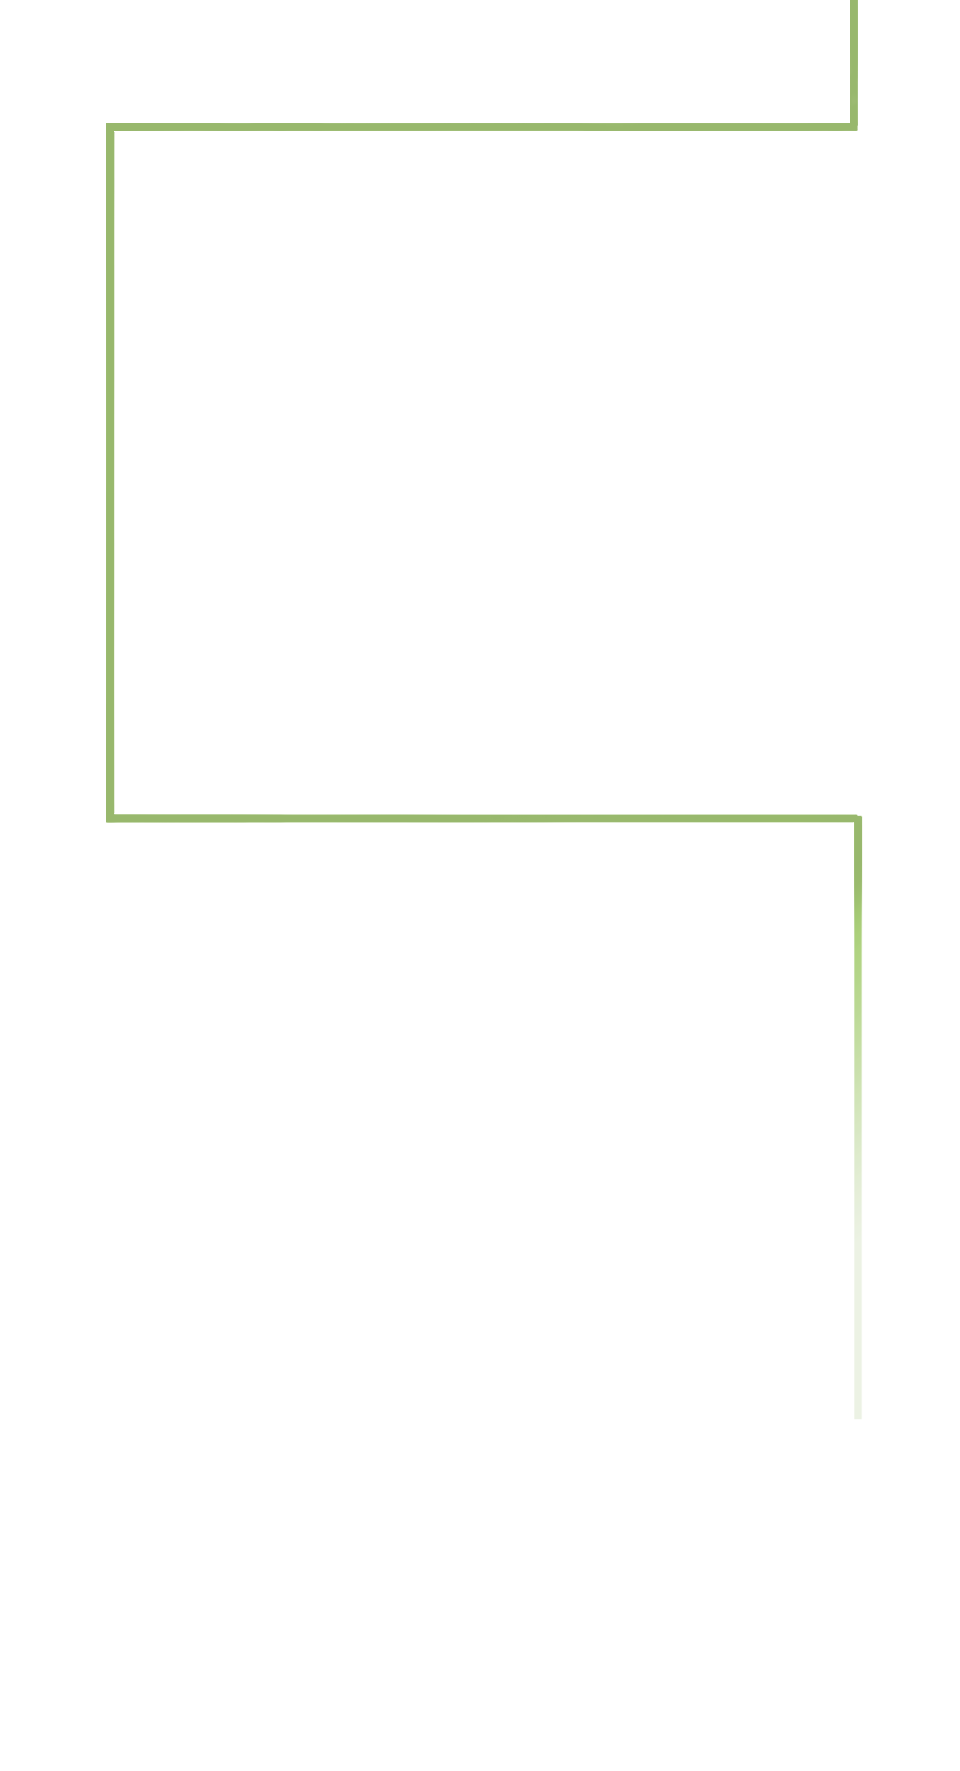
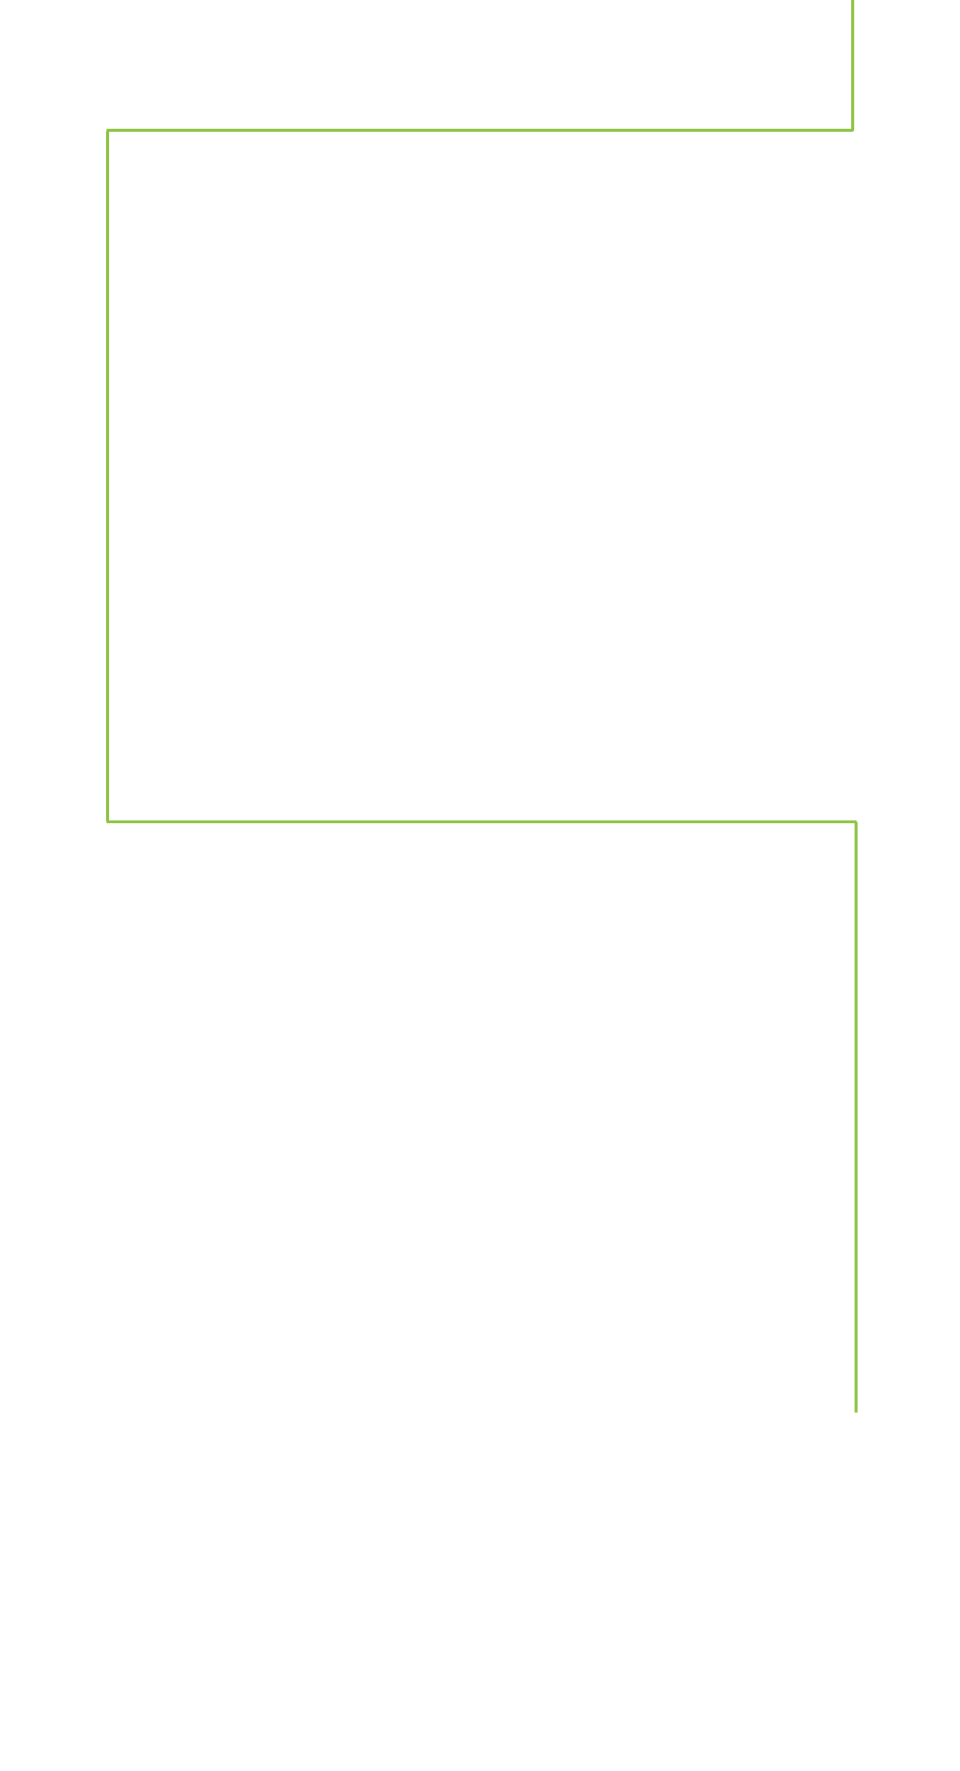
details

Changed region(s): [[0.0938, 0.0, 0.9062, 0.8075]]

diff --git a/css/style.css b/css/style.css
@@ -309,7 +309,7 @@
 		{
 			width: 95%;
 			border: 2px solid rgba(140, 196, 66, 1);
-			border-radius: 0.4em;
+			border-radius: 0.2em;
 
 		}
 	
@@ -1580,7 +1580,8 @@
 
 	#banner strong 
 	{
-	color: rgba(140, 196, 66, 0);
+	color: rgba(140, 196, 66, 1);
+	text-shadow: none;
 	}	
 
 	div#banner h3 
@@ -1643,7 +1644,7 @@
 	#call-action .bcg 
 	{
 		/*background: url('images/banner.gif') repeat-x center center;*/
-		background-color: rgba(140, 196, 66, 0.74);
+		background-color: rgba(140, 196, 66, 0.9);
 		padding: 4em 0 4em 0;	
 	}
 
@@ -1978,16 +1979,11 @@ article.team-pic img:hover {
 	{
 		border-radius: 100%;
 		width: 100%;
-		height: 23em;
-		border: .2em solid rgba(233, 233, 233, 0.83);
-	}
-
-	.about-recap img 
-	{
-		/*margin-top: 3em;*/
 		margin-top: 1em;
 		opacity: 1;
-	}
+		height: 23em;
+		border: .2em solid #8cc442;
+}
 
 	.green-bg 
 	{
@@ -2006,12 +2002,14 @@ section#vision
 	/*opacity: 0;*/
 }
 
-section#vision h4 
-{
+section#vision h4 {
 	font-size: 1.2em;
-	padding-top: 2em;
+	/* padding-top: 2em; */
 	color: rgb(61, 61, 61);
-	font-weight: 200; 
+	font-weight: 200;
+	border-top: 2px dotted rgba(200, 203, 195, 0.7);
+	padding: .4em;
+	margin-top: 1em;
 }
 
 .vision-wrap

diff --git a/index.html b/index.html
@@ -535,7 +535,7 @@
 							</div>
 							<div class="-1u 5u address">
 								<h3>RecapHealth Venture</h3>
-								<h4>Address </h4>
+								<h4><strong>Address</strong></h4>
 								<h4>Suite 300 128 W. Hastings <br>
 								Vancouver BC V6B 1G8 </h4> <br>
 								<h4>E-mail</h4>

diff --git a/index.php b/index.php
@@ -535,7 +535,7 @@
 							</div>
 							<div class="-1u 5u address">
 								<h3>RecapHealth Venture</h3>
-								<h4>Address </h4>
+								<h4><strong>Address</strong></h4>
 								<h4>Suite 300 128 W. Hastings <br>
 								Vancouver BC V6B 1G8 </h4> <br>
 								<h4>E-mail</h4>
